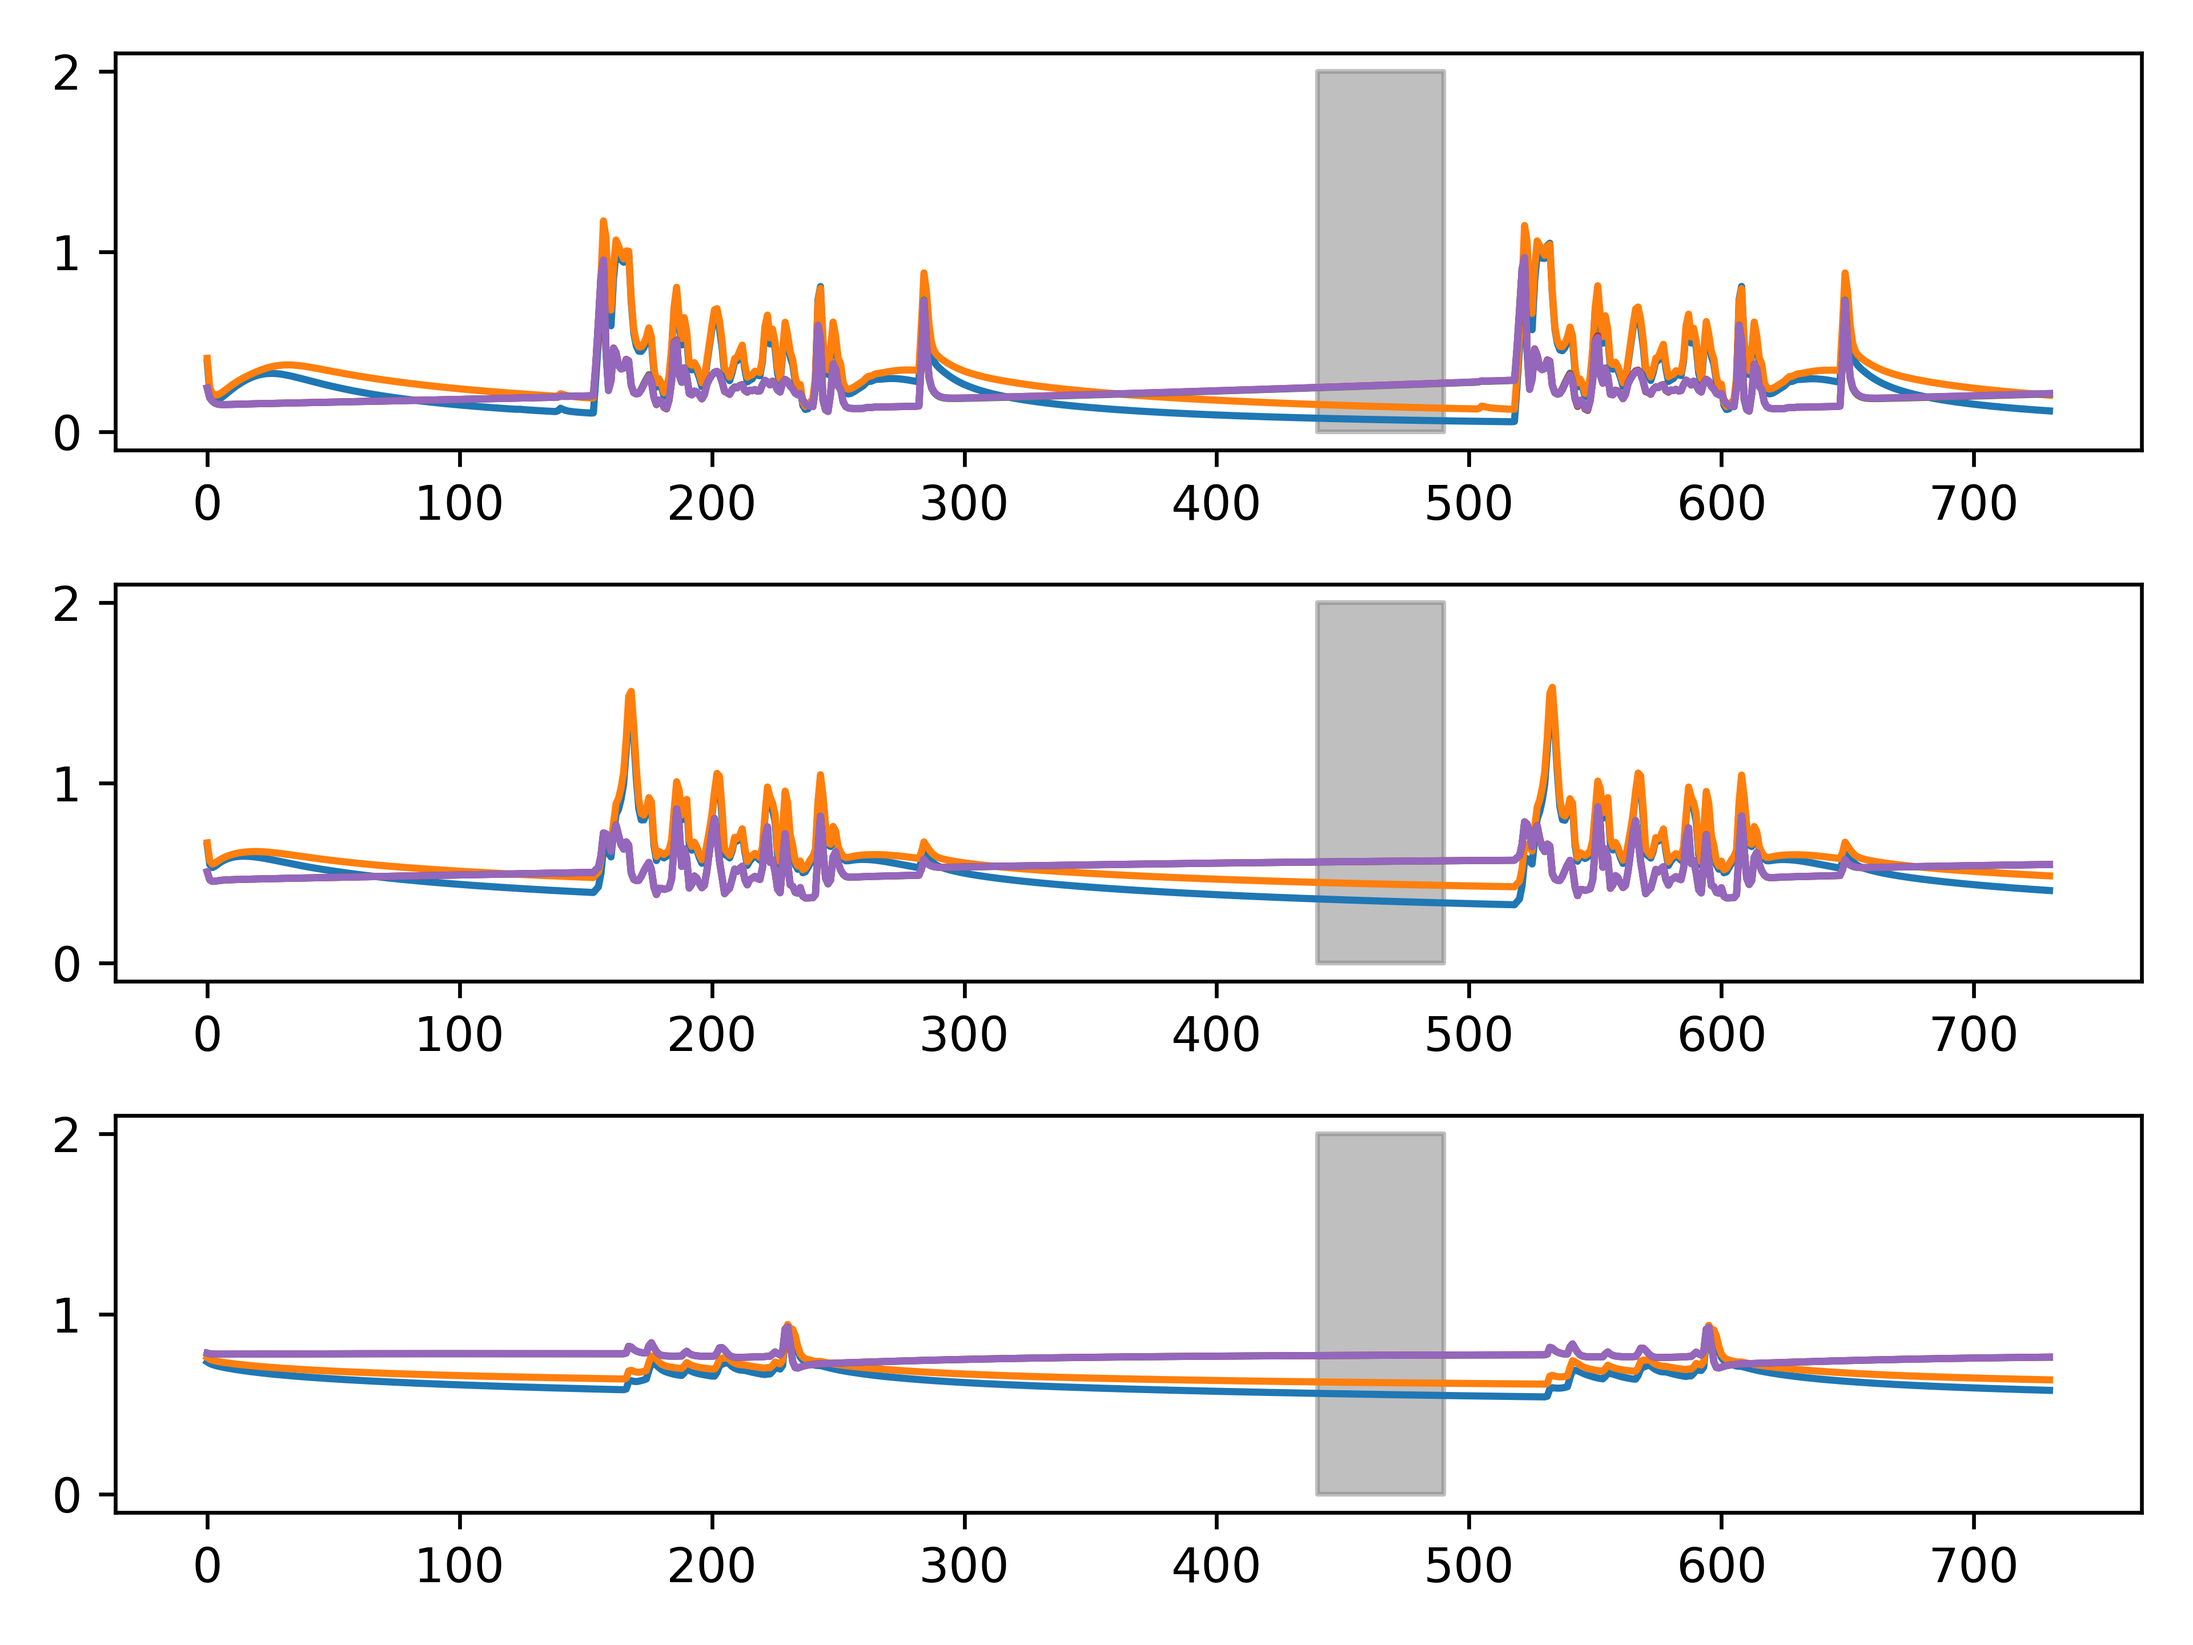
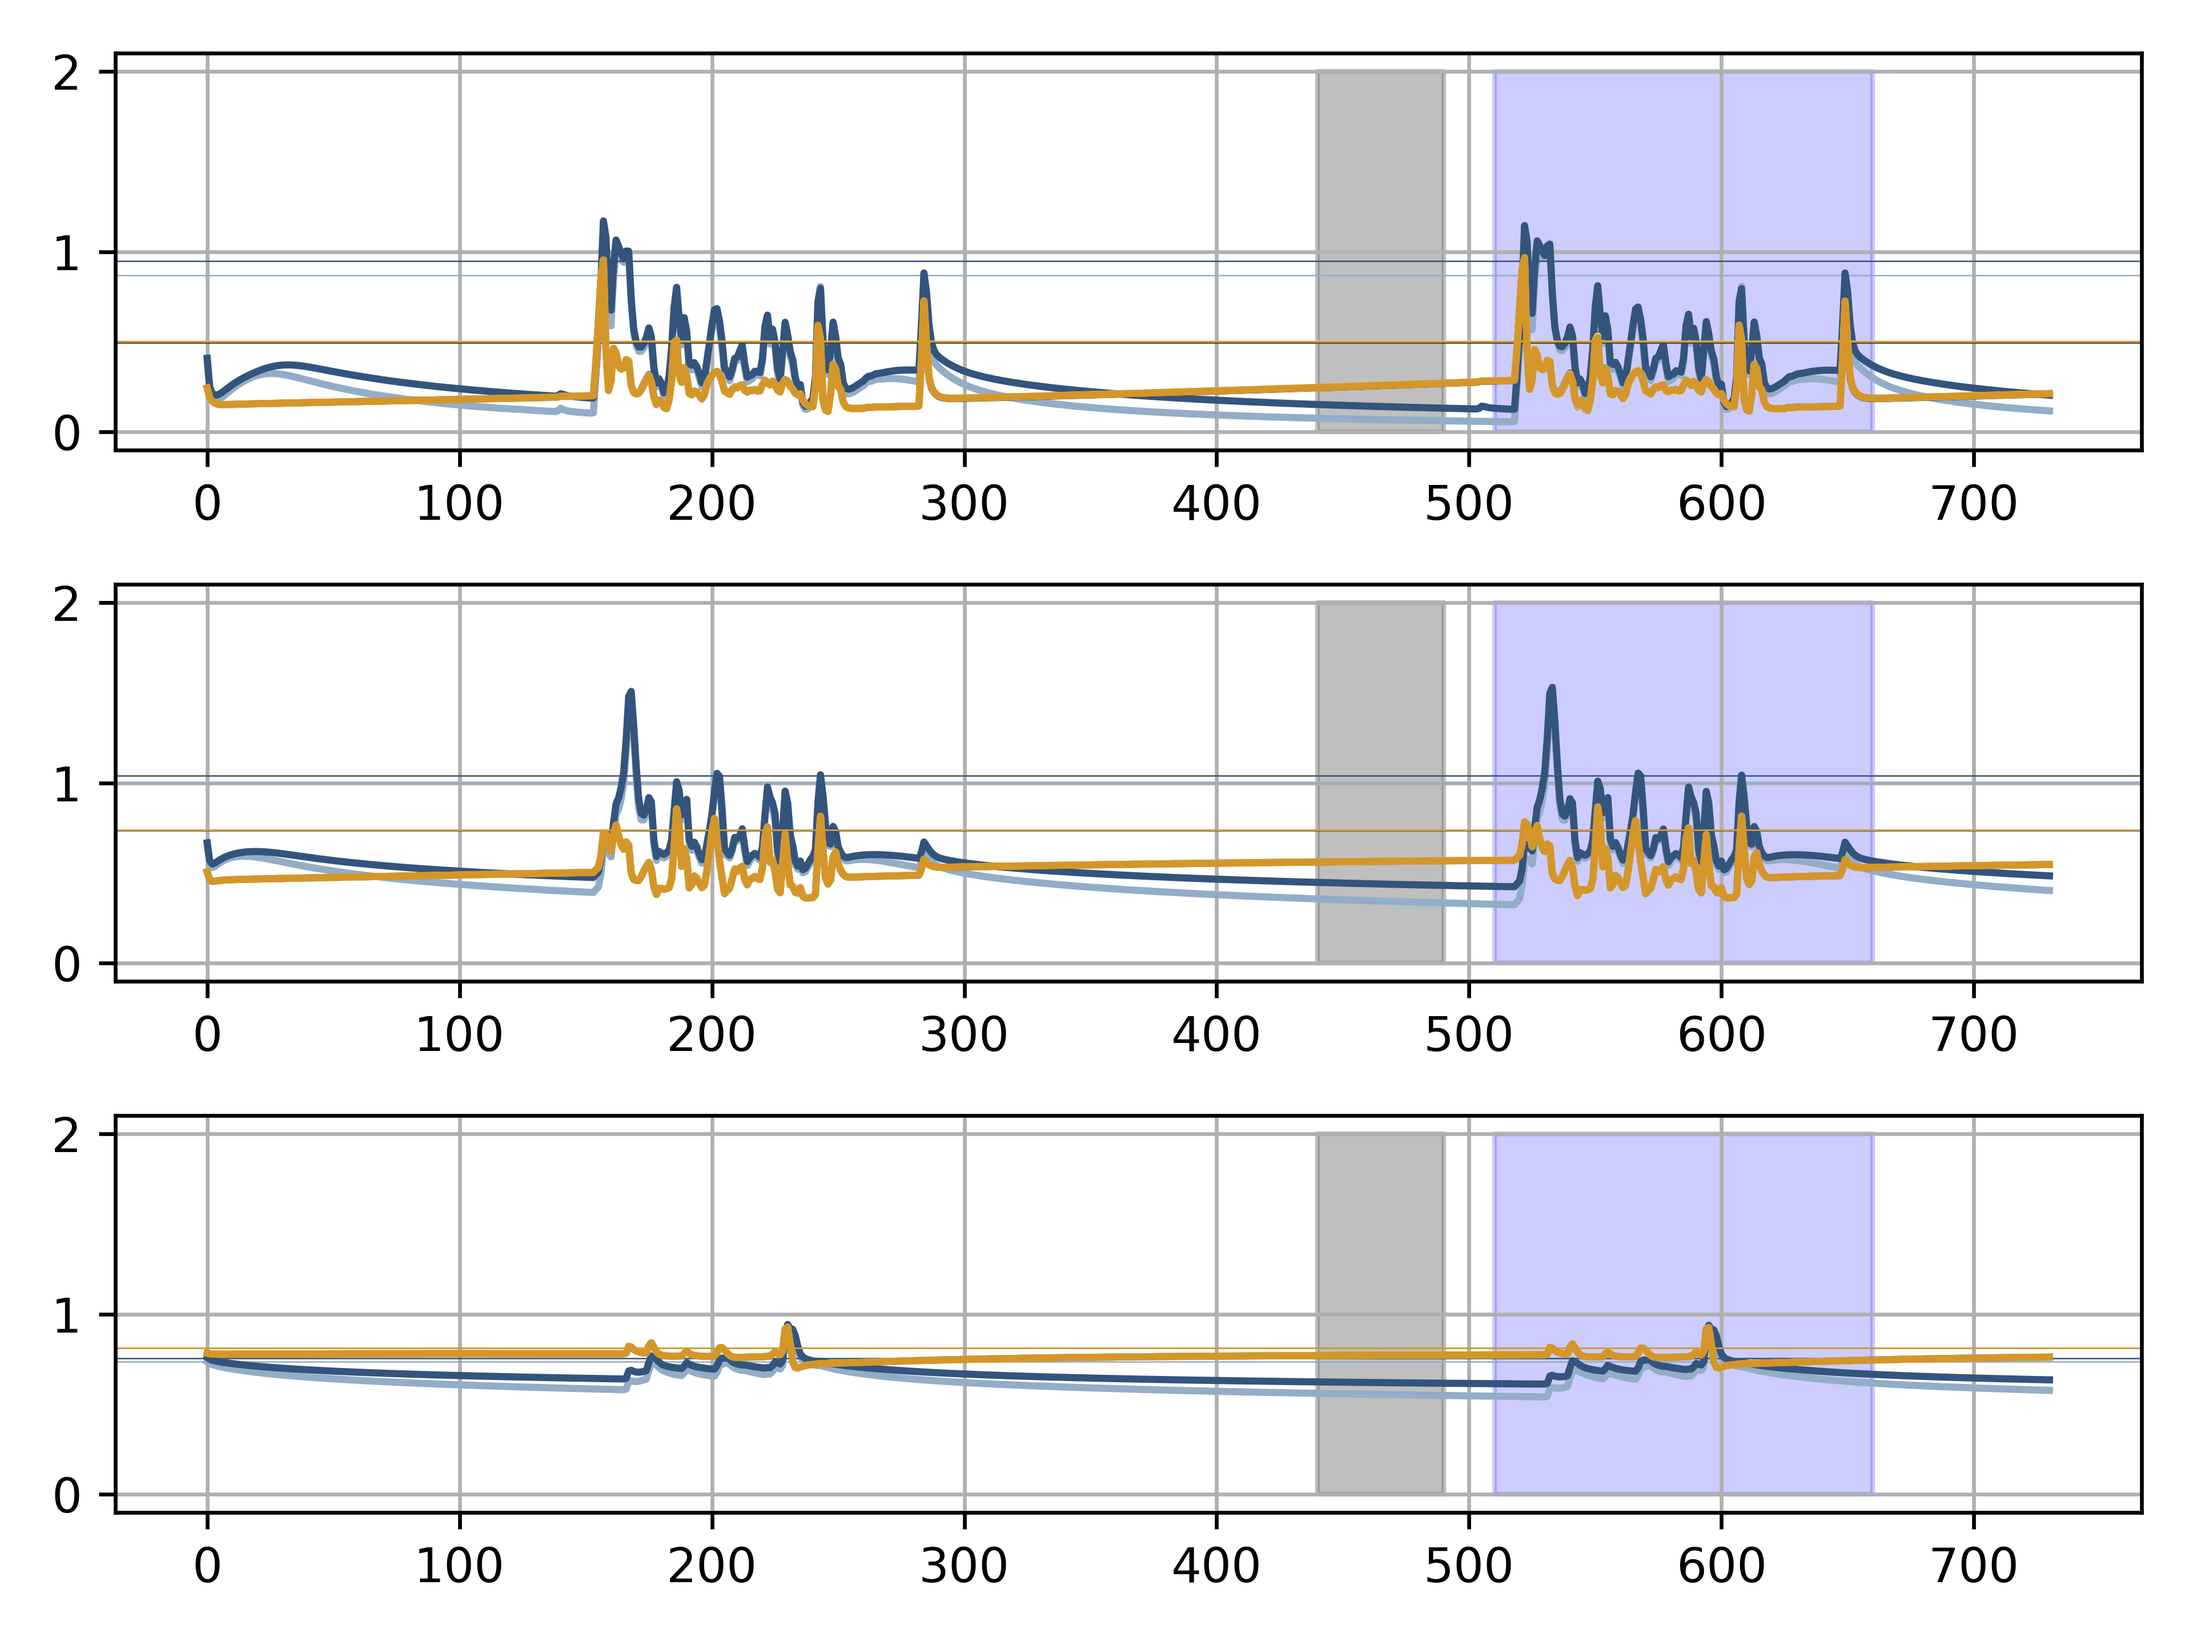
Sensitivity for table

diff --git a/analysis/compare_winter_pressure.py b/analysis/compare_winter_pressure.py
@@ -148,18 +148,20 @@ print(summer.T)
 print('Days overpressure:')
 print(days.T)
 
-# print('-------------------------------------------------')
-# print('    SENSITIVITY')
-# print('-------------------------------------------------')
-# cases = [1, 2, 3, 4, 5]
-# kan_dir = '../glads/S01b_parameter_sensitivity/RUN/output_%03d_seasonal.nc'
-# fnames = [kan_dir % caseid for caseid in cases]
-# figname = 'stats_KAN_sensitivity.png'
-# winter, summer = quantify_floatation(fnames, figname, x_bands=x_bands, band_width=band_widths,
-#     tslices=KAN_winter_tindex, labels=labels)
-# print('Winter:')
-# print(winter.T)
-# print('Summer:')
-# print(summer.T)
+print('-------------------------------------------------')
+print('    SENSITIVITY')
+print('-------------------------------------------------')
+cases = [1, 2, 3, 4, 5]
+kan_dir = '../glads/S01b_parameter_sensitivity/RUN/output_%03d_seasonal.nc'
+fnames = [kan_dir % caseid for caseid in cases]
+figname = 'stats_KAN_sensitivity.png'
+winter, summer, days = quantify_floatation(fnames, figname, x_bands=x_bands, band_width=band_widths,
+    tslices=KAN_winter_tindex, labels=labels)
+print('Winter:')
+print(winter.T)
+print('Summer:')
+print(summer.T)
+print('Days overpressure:')
+print(days.T)
 
 plt.show()
